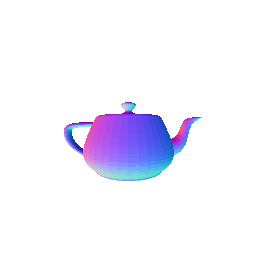
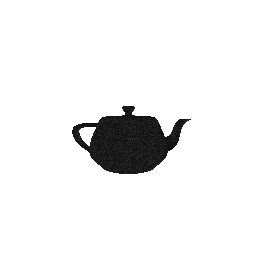
why the fuck is my code slower than my old code im immensely disappointed

Changed region(s): [[0.25, 0.375, 0.7812, 0.7188]]

diff --git a/src/com/JavaPathtracer/Camera.java b/src/com/JavaPathtracer/Camera.java
@@ -5,9 +5,10 @@ import com.JavaPathtracer.geometry.Vector;
 
 public class Camera {
 
-	private Vector position;		// Position of the camera
-	private Vector lookingAt;		// Unit vector, camera direction
-	private Vector up;				// Up vector (basis)
+	public Vector position;			// Position of the camera
+	public Vector lookingAt;		// Unit vector, camera direction
+	public Vector up;				// Up vector (basis)
+	private double focalLength;
 	
 	public Camera() {
 		this.position = new Vector(0.0, 0.0, 0.0);
@@ -27,9 +28,18 @@ public class Camera {
 		this.up = up;
 	}
 	
+	public void setFOV(double FOV) {
+		this.focalLength = 0.5 / Math.tan(FOV * Math.PI / 360);	
+	}
+	
+	public double getFocalLength() {
+		return this.focalLength;
+	}
+	
+	
 	// takes image plane coordinates (-1 to 1) and returns a camera ray
 	public Ray getCameraRay(double imagePlaneX, double imagePlaneY) {
-		Vector direction = new Vector(imagePlaneX, imagePlaneY, 1.0).normalized();
+		Vector direction = new Vector(imagePlaneX, imagePlaneY, focalLength).normalized();
 		Vector basis = up.cross(lookingAt);
 		direction = Vector.localToWorldCoords(direction, basis, up, lookingAt);
 		Ray result = new Ray(this.position, direction);

diff --git a/src/com/JavaPathtracer/Main.java b/src/com/JavaPathtracer/Main.java
@@ -19,6 +19,7 @@ public class Main {
 		Texture output = new Texture(outputImage);
 		
 		Camera camera = new Camera(new Vector(0.0, 2.0, -6.0));
+		camera.setFOV(60);
 		Scene scene = new Scene();
 		
 		//scene.setSkyEmission(new HDRMap(new File("assets/sky_cloudy/HDR_029_Sky_Cloudy_Ref.hdr")));
@@ -27,10 +28,12 @@ public class Main {
 		Material mat = new Material(new Vector(1.0, 1.0, 1.0), new Vector(1.0, 1.0, 1.0).times(0.0));
 		scene.add(new WorldObject(new BVHMesh(new File("assets/UtahTeapot.obj")), mat));
 
-		//Raytracer rt = new Pathtracer(5, 100, camera, scene);
-		Raytracer rt = new DebugTracer(camera, scene);
+		long start = System.currentTimeMillis();
+		Raytracer rt = new Pathtracer(5, 30, camera, scene);
 		Renderer renderer = new LivePreviewRenderer(rt, 4, 2);
 		renderer.render(output);
+		long end = System.currentTimeMillis();
+		System.out.println("Took " + (end - start));
 
 		output.saveToFile(new File("output.png"));
 		System.out.println("Done.");

diff --git a/src/com/JavaPathtracer/geometry/BVHNode.java b/src/com/JavaPathtracer/geometry/BVHNode.java
@@ -15,7 +15,7 @@ public class BVHNode extends BoundingBox implements Shape {
 	public static final int NUM_BINS = 32;
 	public static final double COST_TRAVERSE = 1; // greater intersect cost = more splits
 	public static final double COST_INTERSECT = 8;
-	public static final int MAX_DEPTH = 5;
+	public static final int MAX_DEPTH = 8;
 	
 	private static final double minOf3(double a, double b, double c) {
 		return Math.min(a, Math.min(b, c));
@@ -192,10 +192,6 @@ public class BVHNode extends BoundingBox implements Shape {
 			} else {
 				return Hit.MISS;
 			}
-			
-			// actually...
-			// return some bogus for testing
-			//return new Hit(new Vector(0.0, 0.0, 0.0), new Vector(1.0, 0.0, 0.0), 0, new Vector(0.0, 1.0, 0.0));
 			
 		} else {
 			
